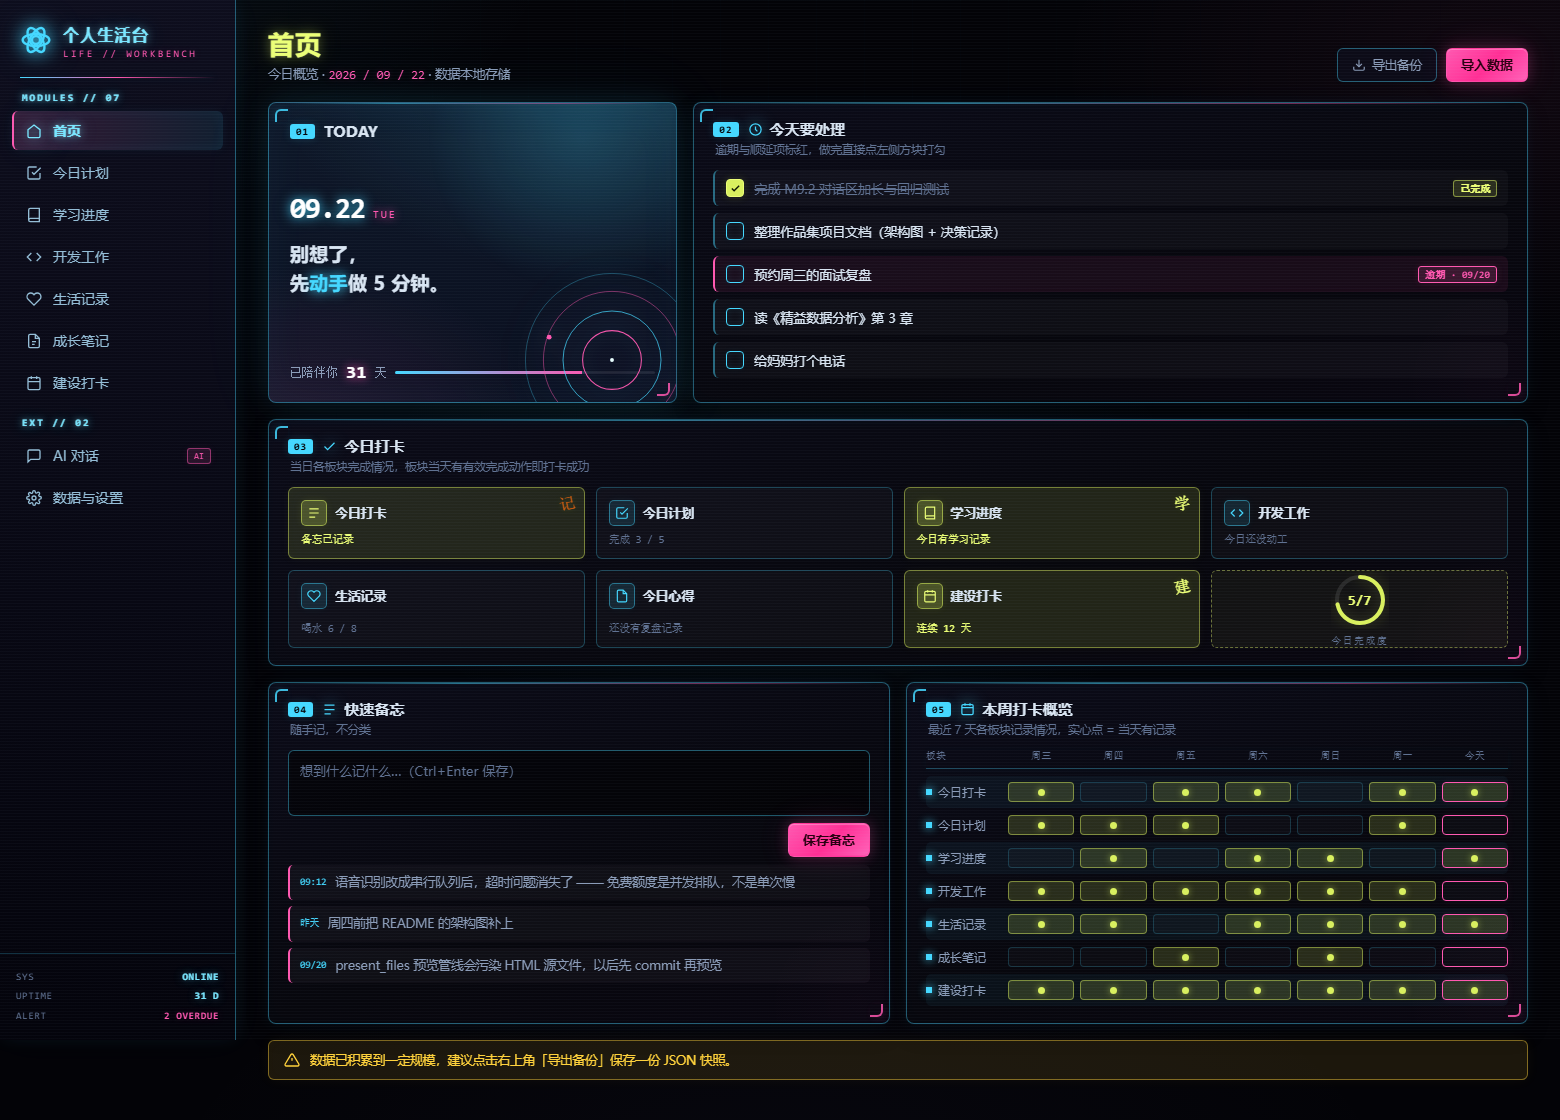
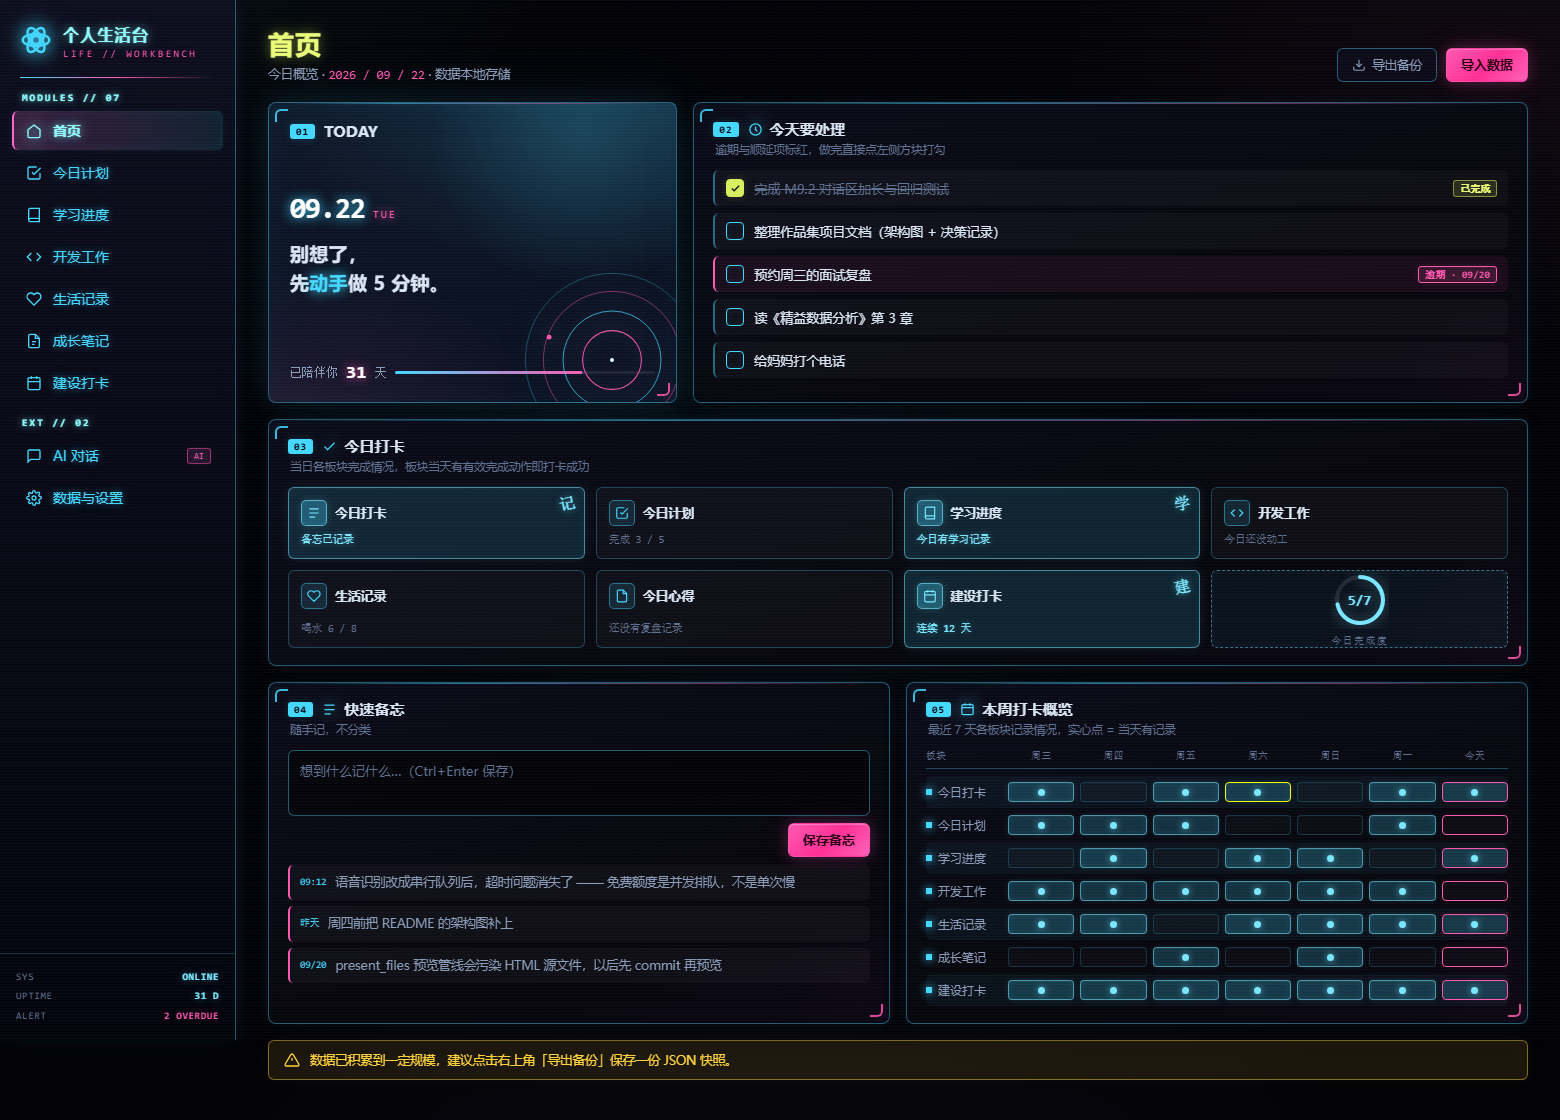
设计稿 B10：霓虹跃动 + 打卡区转青
- 侧栏导航整栏发光：普通项改主色 #45d8ff + 双层辉光，hover/当前项上荧光版 --cyan-hi
- 新增 neonBreath 呼吸动画（LOGO 5.4s / 分组标题 6.8s / 当前项 4.6s，filter:brightness 1~1.16，微颤不闪烁）
- 打卡区荧光黄 → 偏青：完成卡底/描边、图标、状态文字、印章、汇总格、完成度数字、本周记录点、完成度环
  全部改青系（rgba(69,216,255,*) 块面 + --cyan-hi 文字描边）
- 保留黄：页面大标题 h1（--gold-hi）、「今日要处理」栏对勾与已完成徽章
- 清理元素选择器注入的内联 style="color: rgb(255,255,0)"（3 处印章，优先级高于 CSS）
- 计算样式体检全部命中；glowE 8.94→8.98、p95 保持 61；版式无损

diff --git a/设计稿/皮肤方案/B-赛博霓虹.html b/设计稿/皮肤方案/B-赛博霓虹.html
@@ -36,6 +36,10 @@ body::after{content:'';position:fixed;inset:0;pointer-events:none;z-index:0;opac
   mask-image:radial-gradient(1000px 640px at 50% 10%, #000 18%, transparent 86%)}
 #app{display:flex;min-height:100vh;position:relative;z-index:1}
 
+@keyframes neonBreath{
+  0%,100%{filter:brightness(1)}
+  50%{filter:brightness(1.16)}}
+
 /* ---------- 侧栏 ---------- */
 #sidebar{
   width:236px;flex-shrink:0;position:sticky;top:0;height:100vh;
@@ -50,22 +54,26 @@ body::after{content:'';position:fixed;inset:0;pointer-events:none;z-index:0;opac
 .logo .mk svg{width:32px;height:32px;color:var(--cyan);
   filter:drop-shadow(0 0 9px rgba(69,216,255,1)) drop-shadow(0 0 16px rgba(69,216,255,0.173))}
 .logo .t{font-size:16px;font-weight:700;letter-spacing:1.2px;color:var(--cyan-hi);
-  text-shadow:0 0 9px rgba(122,231,255,.55), 0 0 20px rgba(69,216,255,.30), 0 0 2px rgba(255,255,255,.32)}
+  text-shadow:0 0 9px rgba(122,231,255,.55), 0 0 20px rgba(69,216,255,.30), 0 0 2px rgba(255,255,255,.32);
+  animation:neonBreath 5.4s ease-in-out infinite}
 .logo .s{font-size:10px;color:var(--magenta);margin-top:3px;font-family:var(--mono);
   letter-spacing:2.4px;text-shadow:0 0 9px rgba(255,88,176,0.207)}
 nav{flex:1;padding:14px 12px;overflow-y:auto}
 .nav-label{font-family:var(--mono);font-size:9.5px;font-weight:700;letter-spacing:2.4px;padding:0 10px 8px;
   color:var(--cyan-hi);
-  text-shadow:0 0 7px rgba(122,231,255,.75), 0 0 15px rgba(69,216,255,.40), 0 0 2px rgba(255,255,255,.30)}
+  text-shadow:0 0 7px rgba(122,231,255,.75), 0 0 15px rgba(69,216,255,.40), 0 0 2px rgba(255,255,255,.30);
+  animation:neonBreath 6.8s ease-in-out infinite}
 .nav-item{display:flex;align-items:center;gap:11px;padding:10px 12px;border-radius:var(--r-sm);
-  cursor:pointer;color:#94bdd6;margin-bottom:3px;font-size:14px;
+  cursor:pointer;color:var(--cyan);margin-bottom:3px;font-size:14px;
+  text-shadow:0 0 7px rgba(69,216,255,.42), 0 0 15px rgba(69,216,255,.17);
   border-left:2px solid transparent;transition:.18s}
 .nav-item:hover{background:rgba(69,216,255,.13);color:var(--cyan-hi);
-  text-shadow:0 0 8px rgba(122,231,255,.52), 0 0 17px rgba(69,216,255,.24)}
+  text-shadow:0 0 8px rgba(122,231,255,.58), 0 0 18px rgba(69,216,255,.28)}
 .nav-item.active{
   background:linear-gradient(90deg, rgba(255,88,176,.16), rgba(69,216,255,.09));
   color:var(--cyan-hi); border-left-color:var(--magenta); font-weight:600;
   text-shadow:0 0 8px rgba(122,231,255,.66), 0 0 18px rgba(69,216,255,.36), 0 0 2px rgba(255,255,255,.42);
+  animation:neonBreath 4.6s ease-in-out infinite;
   box-shadow:inset 0 0 13px rgba(69,216,255,.065), 0 0 11px rgba(69,216,255,.05)}
 .nav-item svg{width:16px;height:16px;flex:none}
 .nav-item.active svg{filter:drop-shadow(0 0 7px var(--cyan-hi)) drop-shadow(0 0 14px rgba(69,216,255,.5))}
@@ -187,7 +195,7 @@ main{flex:1;min-width:0;padding:26px 30px 40px;max-width:1320px;margin:0 auto}
   display:grid;place-items:center;cursor:pointer;color:transparent;
   box-shadow:inset 0 0 8px rgba(69,216,255,0.092), 0 0 8px rgba(69,216,255,0.042)}
 .mini-check.checked{background:var(--gold);
-  border-color:var(--gold-hi);color:#0d1400;
+  border-color:var(--gold);color:#0d1400;
   box-shadow:0 0 8.0px rgba(217,240,94, 0.124), 0 0 16.0px rgba(217,240,94, 0.049)}
 .mini-check svg{width:11px;height:11px}
 .fi-text{flex:1;font-size:13px;min-width:0;overflow:hidden;text-overflow:ellipsis;white-space:nowrap}
@@ -207,37 +215,37 @@ main{flex:1;min-width:0;padding:26px 30px 40px;max-width:1320px;margin:0 auto}
   box-shadow:inset 0 0 10px rgba(69,216,255,0.011)}
 .ck-card:hover{border-color:var(--cyan);
   box-shadow:0 0 12px rgba(69,216,255,0.081), inset 0 0 14px rgba(69,216,255,0.028)}
-.ck-card.done{border-color:rgba(217,240,94,.46);
-  background:rgba(217,240,94,.13);
-  box-shadow:0 0 11.2px rgba(217,240,94, 0.039), inset 0 0 12.8px rgba(217,240,94, 0.014)}
+.ck-card.done{border-color:rgba(122,231,255,.52);
+  background:rgba(69,216,255,.14);
+  box-shadow:0 0 11.2px rgba(122,231,255,.10), inset 0 0 12.8px rgba(69,216,255,.05)}
 .ck-top{display:flex;align-items:center;gap:8px}
 .ck-ic{width:26px;height:26px;border-radius:5px;display:grid;place-items:center;flex:none;
   background:rgba(69,216,255,.12);border:1px solid rgba(69,216,255,.45);color:var(--cyan);
   box-shadow:0 0 9px rgba(69,216,255,0.05)}
 .ck-ic svg{width:14px;height:14px}
-.ck-card.done .ck-ic{background:rgba(217,240,94,.22);
-  border-color:rgba(217,240,94,.55);color:var(--gold-hi);
-  box-shadow:0 0 8.0px rgba(217,240,94, 0.076), inset 0 0 7.2px rgba(217,240,94, 0.028)}
+.ck-card.done .ck-ic{background:rgba(69,216,255,.30);
+  border-color:rgba(122,231,255,.62);color:var(--cyan-hi);
+  box-shadow:0 0 8.0px rgba(122,231,255,.20), inset 0 0 7.2px rgba(69,216,255,.09)}
 .ck-name{font-size:12.5px;font-weight:700;letter-spacing:.3px}
 .ck-st{font-size:10.5px;color:var(--t3);font-family:var(--mono);margin-top:auto}
-.ck-card.done .ck-st{color:var(--gold-hi);text-shadow:0 0 6.4px rgba(217,240,94, 0.069)}
+.ck-card.done .ck-st{color:var(--cyan-hi);text-shadow:0 0 6.4px rgba(122,231,255,.45)}
 .ck-stamp{position:absolute;right:8px;top:6px;font-size:16px;font-weight:800;
-  color:var(--gold-hi);
+  color:var(--cyan-hi);
   transform:rotate(-12deg);font-family:var(--mono);
-  text-shadow:0 0 7.2px rgba(217,240,94, 0.158), 0 0 13.6px rgba(217,240,94, 0.055)}
+  text-shadow:0 0 7.2px rgba(122,231,255,.55), 0 0 13.6px rgba(69,216,255,.22)}
 .ck-card.locked{opacity:.45}
 .lock-tag{position:absolute;right:6px;top:6px;font-family:var(--mono);font-size:8.5px;font-weight:700;
   padding:1px 4px;border-radius:3px;background:rgba(255,88,176,.13);color:var(--magenta);
   border:1px solid rgba(255,88,176,.5)}
 .ck-sum{display:flex;flex-direction:column;align-items:center;justify-content:center;gap:6px;
   border-radius:var(--r-sm);position:relative;
-  border:1px dashed rgba(236,255,119,.40);background:rgba(236,255,119,.05);
-  box-shadow:inset 0 0 9.6px rgba(217,240,94, 0.011)}
+  border:1px dashed rgba(122,231,255,.45);background:rgba(69,216,255,.055);
+  box-shadow:inset 0 0 9.6px rgba(69,216,255,.05)}
 .ck-sum .ring{width:58px;height:58px;position:relative}
 .ck-sum .ring svg{width:58px;height:58px;transform:rotate(-90deg)}
 .ck-sum .ring .val{position:absolute;inset:0;display:grid;place-items:center;
-  font-family:var(--mono);font-size:14px;font-weight:800;color:var(--gold-hi);
-  text-shadow:0 0 7.2px rgba(217,240,94, 0.124)}
+  font-family:var(--mono);font-size:14px;font-weight:800;color:var(--cyan-hi);
+  text-shadow:0 0 7.2px rgba(122,231,255,.50)}
 .ck-sum .lb{font-family:var(--mono);font-size:10px;color:var(--t3);letter-spacing:1.4px}
 
 /* ---------- 快速备忘 ---------- */
@@ -269,12 +277,12 @@ main{flex:1;min-width:0;padding:26px 30px 40px;max-width:1320px;margin:0 auto}
 .wk-name i{width:6px;height:6px;background:var(--cyan);flex:none;box-shadow:0 0 8px var(--cyan)}
 .wk-dot{width:100%;height:20px;border-radius:4px;display:grid;place-items:center;
   border:1px solid rgba(69,216,255,.2);background:rgba(255,255,255,.025)}
-.wk-dot.on{background:rgba(217,240,94,.16);
-  border-color:rgba(217,240,94,.48);
-  box-shadow:inset 0 0 7.2px rgba(217,240,94, 0.028), 0 0 6.4px rgba(217,240,94, 0.022)}
+.wk-dot.on{background:rgba(69,216,255,.20);
+  border-color:rgba(122,231,255,.55);
+  box-shadow:inset 0 0 7.2px rgba(69,216,255,.10), 0 0 6.4px rgba(122,231,255,.12)}
 .wk-dot.on::after{content:'';width:7px;height:7px;border-radius:50%;
-  background:var(--gold);
-  box-shadow:0 0 7.2px rgba(217,240,94, 0.600)}
+  background:var(--cyan-hi);
+  box-shadow:0 0 7.2px rgba(122,231,255,.75)}
 .wk-dot.today{border-color:var(--magenta);box-shadow:0 0 9px rgba(255,88,176,0.069)}
 
 /* ---------- 备份提示 ---------- */
@@ -369,7 +377,7 @@ main{flex:1;min-width:0;padding:26px 30px 40px;max-width:1320px;margin:0 auto}
         <div class="chead"><span class="no">03</span><h2><svg viewBox="0 0 24 24" fill="none" stroke="currentColor" stroke-width="2"><path d="M20 6L9 17l-5-5"></path></svg>今日打卡</h2></div>
         <div class="cdesc">当日各板块完成情况，板块当天有有效完成动作即打卡成功</div>
         <div class="checkin-grid">
-          <div class="ck-card done"><div class="ck-top"><div class="ck-ic"><svg viewBox="0 0 24 24" fill="none" stroke="currentColor" stroke-width="2"><path d="M4 5h16M4 12h16M4 19h10"></path></svg></div><div class="ck-name">今日打卡</div></div><div class="ck-st">备忘已记录</div><div class="ck-stamp" style="">记</div></div>
+          <div class="ck-card done"><div class="ck-top"><div class="ck-ic"><svg viewBox="0 0 24 24" fill="none" stroke="currentColor" stroke-width="2"><path d="M4 5h16M4 12h16M4 19h10"></path></svg></div><div class="ck-name">今日打卡</div></div><div class="ck-st">备忘已记录</div><div class="ck-stamp">记</div></div>
           <div class="ck-card"><div class="ck-top"><div class="ck-ic"><svg viewBox="0 0 24 24" fill="none" stroke="currentColor" stroke-width="2"><path d="M9 11l3 3L22 4"></path><path d="M21 12v7a2 2 0 0 1-2 2H5a2 2 0 0 1-2-2V5a2 2 0 0 1 2-2h11"></path></svg></div><div class="ck-name">今日计划</div></div><div class="ck-st">完成 3 / 5</div></div>
           <div class="ck-card done"><div class="ck-top"><div class="ck-ic"><svg viewBox="0 0 24 24" fill="none" stroke="currentColor" stroke-width="2"><path d="M4 19.5A2.5 2.5 0 0 1 6.5 17H20"></path><path d="M6.5 2H20v20H6.5A2.5 2.5 0 0 1 4 19.5v-15A2.5 2.5 0 0 1 6.5 2z"></path></svg></div><div class="ck-name">学习进度</div></div><div class="ck-st">今日有学习记录</div><div class="ck-stamp">学</div></div>
           <div class="ck-card"><div class="ck-top"><div class="ck-ic"><svg viewBox="0 0 24 24" fill="none" stroke="currentColor" stroke-width="2"><polyline points="16 18 22 12 16 6"></polyline><polyline points="8 6 2 12 8 18"></polyline></svg></div><div class="ck-name">开发工作</div></div><div class="ck-st">今日还没动工</div></div>
@@ -377,7 +385,7 @@ main{flex:1;min-width:0;padding:26px 30px 40px;max-width:1320px;margin:0 auto}
           <div class="ck-card"><div class="ck-top"><div class="ck-ic"><svg viewBox="0 0 24 24" fill="none" stroke="currentColor" stroke-width="2"><path d="M14 2H6a2 2 0 0 0-2 2v16a2 2 0 0 0 2 2h12a2 2 0 0 0 2-2V8z"></path><path d="M14 2v6h6"></path></svg></div><div class="ck-name">今日心得</div></div><div class="ck-st">还没有复盘记录</div></div>
           <div class="ck-card done"><div class="ck-top"><div class="ck-ic"><svg viewBox="0 0 24 24" fill="none" stroke="currentColor" stroke-width="2"><rect x="3" y="4" width="18" height="18" rx="2"></rect><path d="M16 2v4M8 2v4M3 10h18"></path></svg></div><div class="ck-name">建设打卡</div></div><div class="ck-st">连续 12 天</div><div class="ck-stamp">建</div></div>
           <div class="ck-sum">
-            <div class="ring"><svg viewBox="0 0 58 58"><circle cx="29" cy="29" r="23" fill="none" stroke="rgba(255,255,255,.1)" stroke-width="4"></circle><circle cx="29" cy="29" r="23" fill="none" stroke="#d9f05e" stroke-width="4" stroke-linecap="round" stroke-dasharray="144.5" stroke-dashoffset="41.3" style="filter:drop-shadow(0 0 7px rgba(217,240,94,0.274))"></circle></svg><div class="val">5/7</div></div>
+            <div class="ring"><svg viewBox="0 0 58 58"><circle cx="29" cy="29" r="23" fill="none" stroke="rgba(255,255,255,.1)" stroke-width="4"></circle><circle cx="29" cy="29" r="23" fill="none" stroke="#7ae7ff" stroke-width="4" stroke-linecap="round" stroke-dasharray="144.5" stroke-dashoffset="41.3" style="filter:drop-shadow(0 0 7px rgba(122,231,255,.45))"></circle></svg><div class="val">5/7</div></div>
             <div class="lb">今日完成度</div>
           </div>
         </div>
@@ -421,6 +429,8 @@ main{flex:1;min-width:0;padding:26px 30px 40px;max-width:1320px;margin:0 auto}
     </div>
   </main>
 </div>
+
+
 
 
 

diff --git a/docs/03-版本记录.md b/docs/03-版本记录.md
@@ -61,6 +61,17 @@
   当前项（黄荧光 → 最亮的青荧光，背景渐变改粉→青，左侧条保留粉色对比）、底部 HUD 数值。
   页面大标题 `h1` 保留黄荧光作内容区焦点，与侧栏分区。
   实测 glowE 8.85→8.94、p95 60→61、vivid% 38.2→37.5；版式无损
+- **B10（霓虹跃动 + 打卡区转青）**：
+  ① 侧栏导航整栏发光（普通项改主色 `#45d8ff` + 双层辉光，hover 与当前项上荧光版），
+     并给 LOGO / 分组标题 / 当前项加 `neonBreath` 呼吸动画（4.6~6.8s，`filter:brightness` 1↔1.16，
+     只做微颤不做闪烁，模拟霓虹灯管）
+  ② **打卡区荧光黄 → 偏青**：完成卡底/描边、图标、状态文字、印章、汇总格、完成度数字、本周记录点、
+     完成度环 SVG 描边全部改为青系（`rgba(69,216,255,*)` 块面 + `--cyan-hi` 文字/描边）
+  ③ 保留黄：页面大标题 `h1`、`--gold-hi`，以及「今日要处理」栏的对勾与「已完成」徽章（用户明确要求）
+  - 事故与修复：元素选择器会在选中元素上**注入内联 `style="color: rgb(255,255,0)"`（3 处印章）并写回文件**，
+    优先级高于 CSS，导致印章显示为纯黄且改不动。计算样式体检（`check-b10.js`）抓出后清除。
+    → 这类污染要在提交前清掉，`data-page-node-id` 之外多了「内联高亮色」一种形态
+  - 实测 glowE 8.94→8.98、p95 保持 61；版式无损（3 行 / uneven 0 / 无溢出）
 - 度量补充：`png-luma.js` 增加 satBright / vivid% / chromaBright 三个「艳度」指标（只统计 luma>40 的像素，
   否则暗底会把饱和度平均拉飞，出现「A 版看着克制但指标更高」的反直觉结果）
 - **B6（粉青对撞 · 日期卡发光）**：主题青更冷更亮 `#22d3ee` → `#45d8ff`（色相 187→194°，L 53→62%）；
